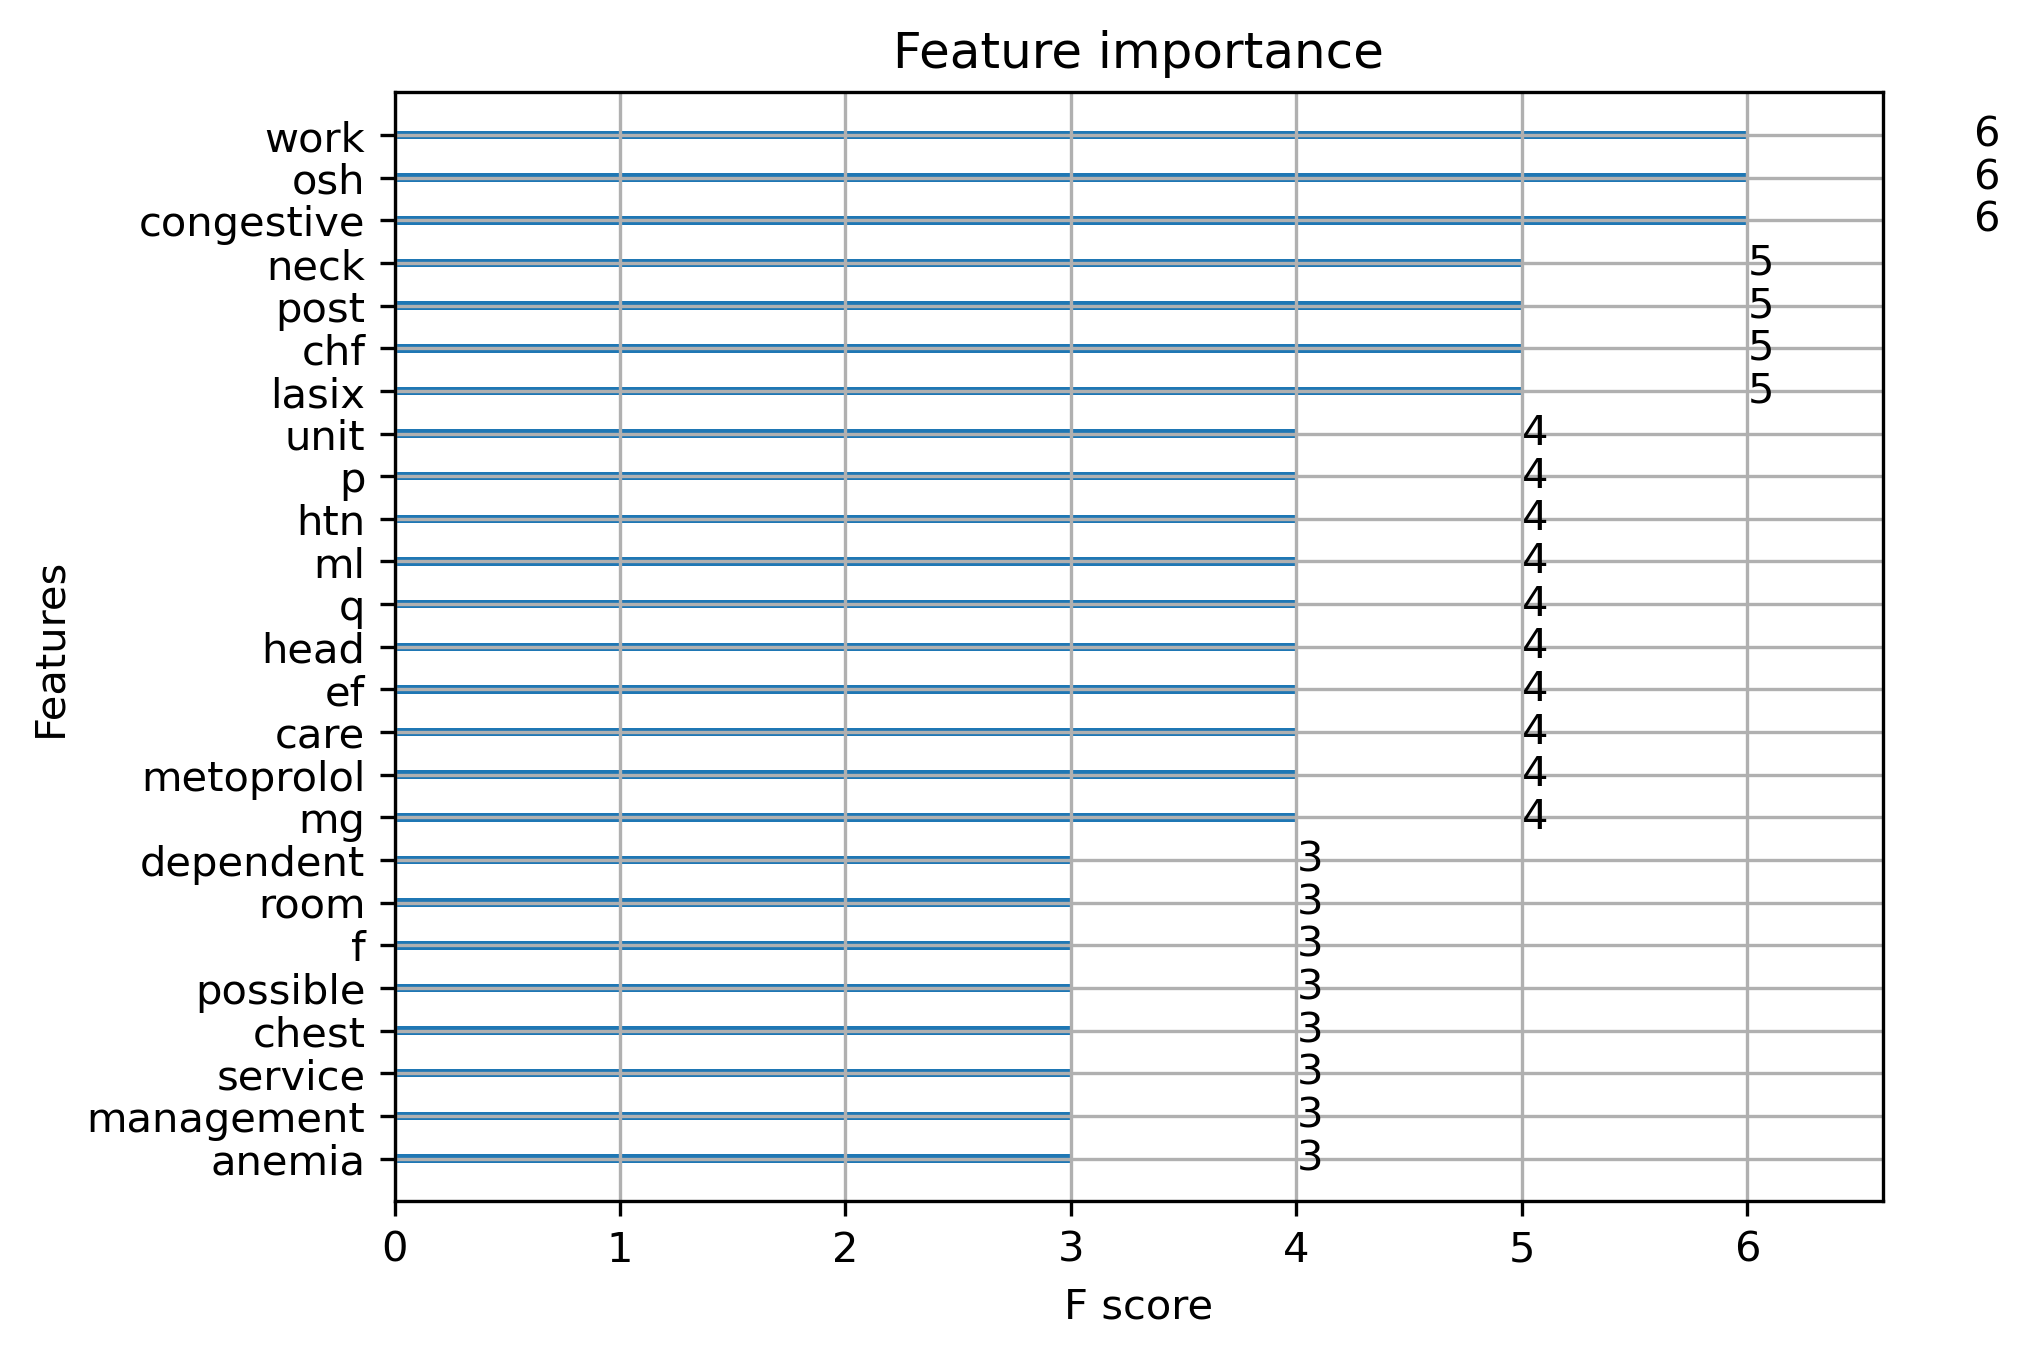
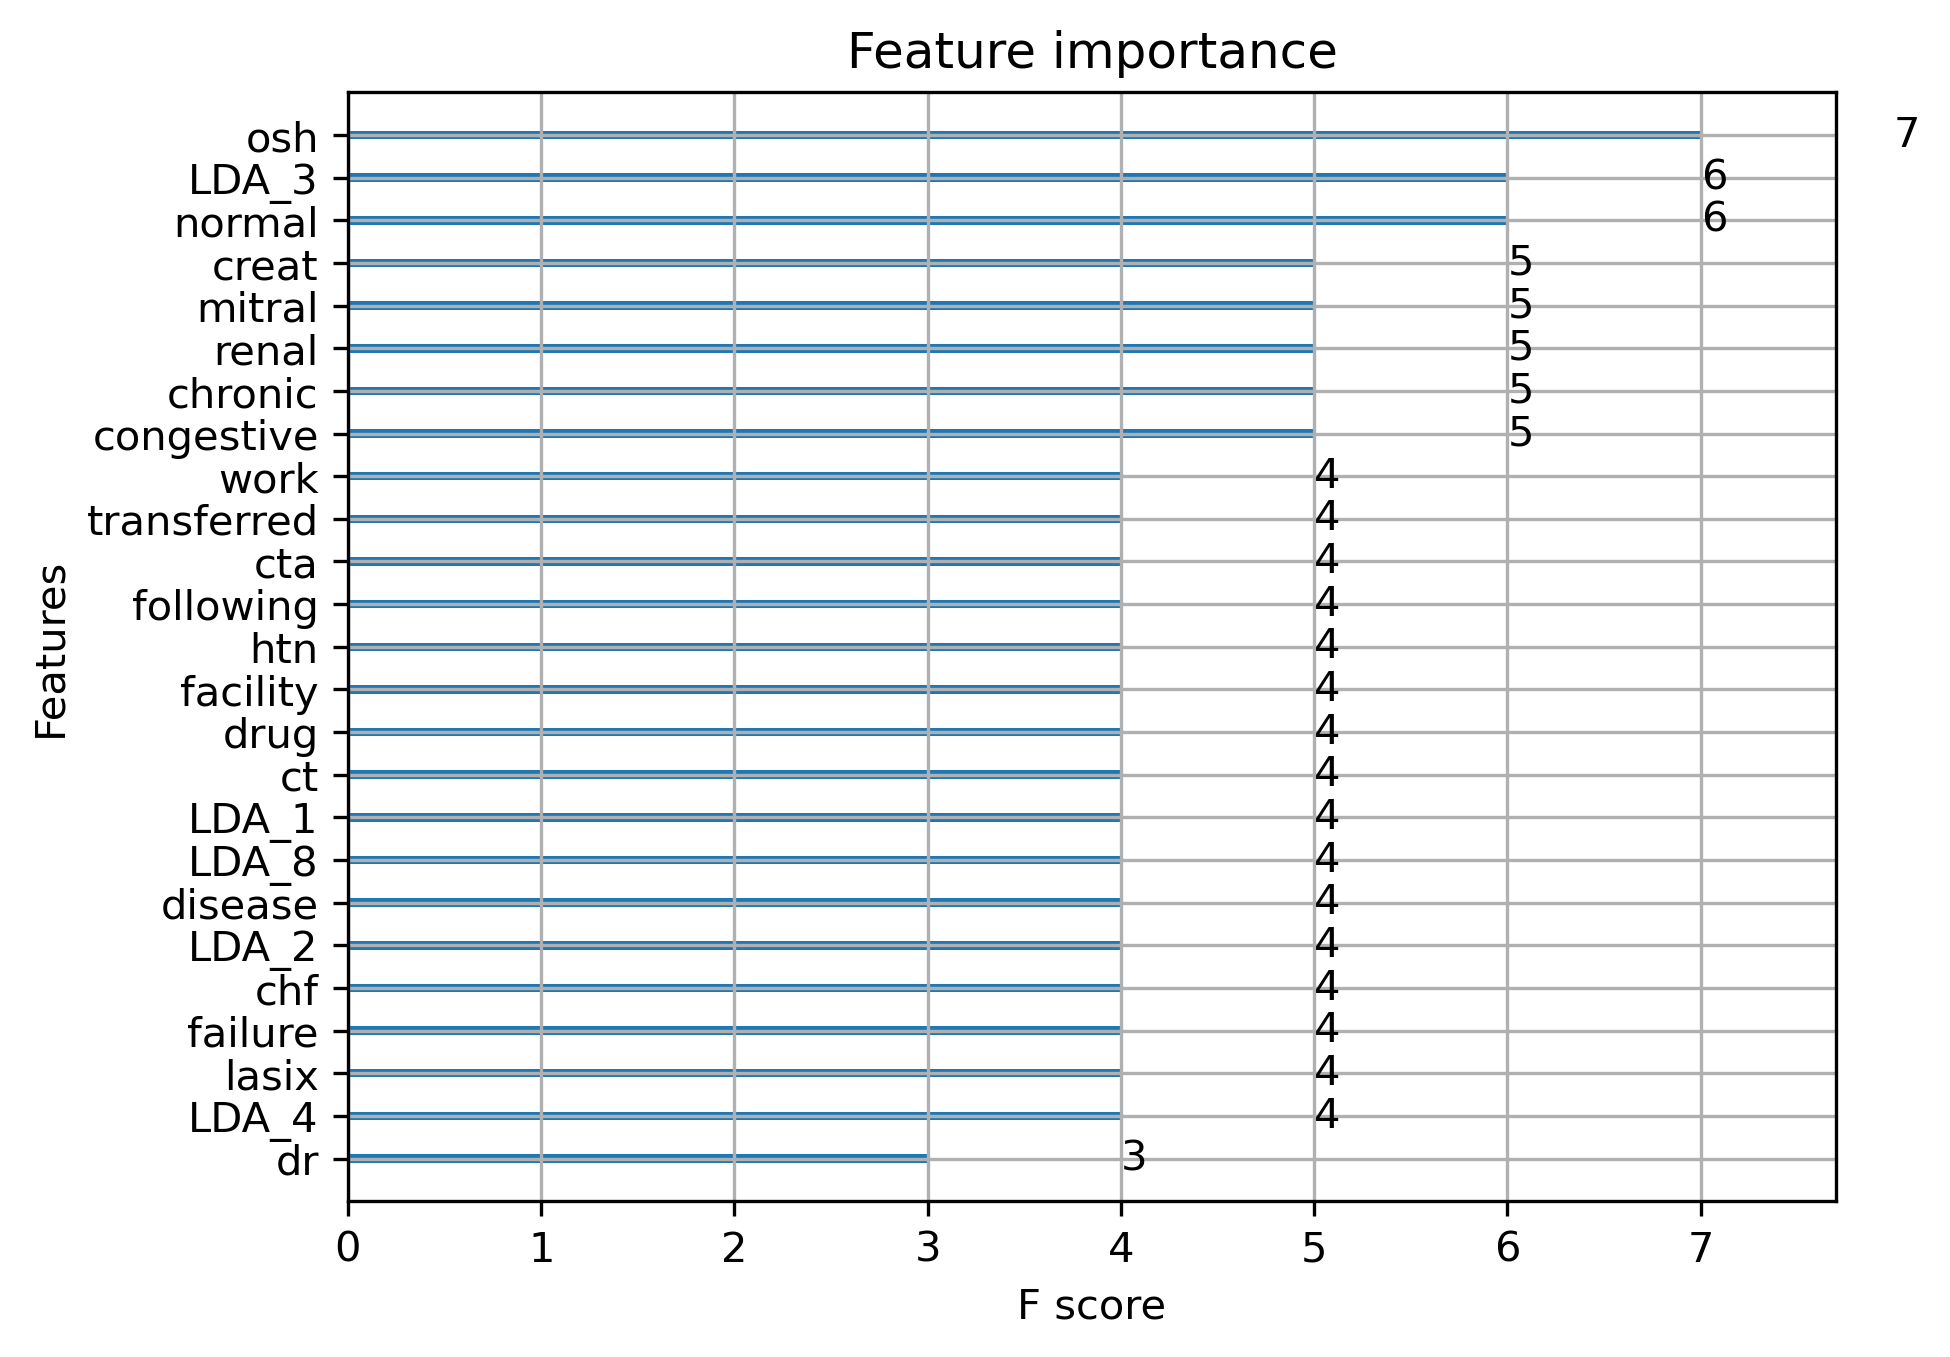
updated lda to use bow, added word2vec base but not implemented yet

diff --git a/ml/main.py b/ml/main.py
@@ -1,8 +1,9 @@
 import pandas as pd
 import xgboost as xgb
-from feature_engineering import pre_process_text, get_data, build_tfidf_vectorizer, generate_lda_features
+from feature_engineering import pre_process_text, get_data, build_tfidf_vectorizer
 from hotspot import get_hotspot_feature_names, generate_hotspot_features
-# from lda import generate_lda_features
+from lda import build_count_vectorizer, generate_lda_features
+# from word2vec import generate_w2v_features
 from model import run_xgboost, true_evaluation
 from datetime import datetime
 from scipy.sparse import hstack
@@ -18,13 +19,13 @@ if __name__ == "__main__":
 
     # TF-IDF Feature engineering
     all_text = pd.concat([train['text'],val['text']])
-    vectorizer = build_tfidf_vectorizer(all_text)
-    tfvocab = vectorizer.get_feature_names()
+    tfidf_vectorizer = build_tfidf_vectorizer(all_text)
+    tfvocab = tfidf_vectorizer.get_feature_names()
 
-    X_train_tfidf = vectorizer.transform(train['text'])
+    X_train_tfidf = tfidf_vectorizer.transform(train['text'])
     print(f'X_train_tfidf shape:{X_train_tfidf.shape}')
     
-    X_val_tfidf = vectorizer.transform(val['text'])
+    X_val_tfidf = tfidf_vectorizer.transform(val['text'])
     print(f'X_val_tfidf shape:{X_val_tfidf.shape}')
     
     # Hotspot technique feature engineering
@@ -32,10 +33,18 @@ if __name__ == "__main__":
     X_train_hotspot = generate_hotspot_features(train["text"], hf_terms)
     X_val_hotspot = generate_hotspot_features(val["text"], hf_terms)
 
-    # LDA feature engineering
+    # LDA feature engineering from BOW
+    bow_vectorizer = build_count_vectorizer(all_text)
+    X_train_lda = bow_vectorizer.transform(train["text"])
+    X_val_lda = bow_vectorizer.transform(val["text"])
+
     n_topics = 10
-    X_train_lda = generate_lda_features(X_train_tfidf, n_topics)
-    X_val_lda = generate_lda_features(X_val_tfidf, n_topics)
+    X_train_lda = generate_lda_features(X_train_lda, n_topics)
+    X_val_lda = generate_lda_features(X_val_lda, n_topics)
+
+    # word2vec feature engineering
+    # X_train_w2v = generate_w2v_features(train["text"])
+    # X_val_w2v = generate_w2v_features(val["text"])
 
     # Train XGB model
     X_train = hstack([X_train_tfidf, X_train_hotspot, X_train_lda])
@@ -52,9 +61,11 @@ if __name__ == "__main__":
     model = run_xgboost(d_train,d_val)
 
     # Run true evaluation on out-of-sample (test) set
-    X_test_tfidf = vectorizer.transform(test['text'])
+    X_test_tfidf = tfidf_vectorizer.transform(test['text'])
     X_test_hotspot = generate_hotspot_features(test["text"], hf_terms)
-    X_test_lda = generate_lda_features(X_test_tfidf, n_topics)
+    
+    X_test_lda = bow_vectorizer.transform(test["text"])
+    X_test_lda = generate_lda_features(X_test_lda, n_topics)
 
     X_test = hstack([X_test_tfidf, X_test_hotspot, X_test_lda])
 

diff --git a/ml/lda.py b/ml/lda.py
@@ -1,32 +1,33 @@
+from sklearn.feature_extraction.text import CountVectorizer
+from sklearn.decomposition import LatentDirichletAllocation
+
+## adapted from Daniel's codes
+
+def build_count_vectorizer(all_text):
+    vectorizer = CountVectorizer(analyzer='word',
+                            strip_accents='unicode',
+                            min_df=0,                        # minimum reqd occurences of a word 
+                            stop_words='english',             # remove stop words
+                            lowercase=True,                   # convert all words to lowercase
+                            max_features=15000,             # max number of uniq words
+                            token_pattern='\\w{1,}',
+                            ngram_range=(1, 1),
+                            )
+
+    return vectorizer.fit(all_text)
+
 ## referenced from 
 ### https://towardsdatascience.com/topic-modeling-and-latent-dirichlet-allocation-in-python-9bf156893c24
 ### https://www.machinelearningplus.com/nlp/topic-modeling-python-sklearn-examples/#7createthedocumentwordmatrix
 
-from sklearn.decomposition import LatentDirichletAllocation, TruncatedSVD
-from sklearn.feature_extraction.text import CountVectorizer
-from sklearn.model_selection import GridSearchCV
-
-import gensim
-
-def gen_bag_of_words(data):
-    # Create Dictionary
-    id2word = corpora.Dictionary(data)
-    # Term Document Frequency
-    bow = [id2word.doc2bow(text) for text in data]
-
-    return id2word, bow
-
-def gen_lda_model(id2word, bow):
-    model = gensim.models.LdaMulticore(
-            bow, 
-            num_topics = 10,
-            id2word = id2word,
-            passes = 2, 
-            workers = 2)
-    return model
-
-def generate_lda_features(data):
-    id2word, bow = gen_bag_of_words(data)
-    model = gen_lda_model(id2word, bow)
-
-    print("DONE")
+# build LDA based on tfidf
+def generate_lda_features(data, n_topics):
+    model = LatentDirichletAllocation(
+        n_components = n_topics,
+        max_iter = 10,
+        learning_method = "online",
+        random_state = 42,
+        n_jobs = 1
+    )
+    output = model.fit_transform(data)
+    return output

diff --git a/ml/word2vec.py b/ml/word2vec.py
@@ -1,0 +1,69 @@
+# adapted from George's codes
+from gensim.models import KeyedVectors
+import fasttext
+import fasttext.util
+import numpy as np
+import pandas as pd
+import pickle
+import re, string
+import scipy
+
+#please download this beforehand
+#this will take 30 min++ to download
+# fasttext.util.download_model('en', if_exists='ignore')  # English
+
+#please download this beforehand
+#Update this portion to your local
+m1 = KeyedVectors.load(r'C:\Users\jolee\Desktop\OMSA\CSE6250\project\CSE6250_Project\word2vec+fastText\FastText\fasttext.model')
+
+#loading the model can take some time
+m2 = fasttext.load_model(r'C:\Users\jolee\Desktop\OMSA\CSE6250\project\CSE6250_Project\cc.en.300.bin')
+fasttext.util.reduce_model(m2, 100)
+
+def get_vector(word,m1,m2):
+    if word in m1.wv.key_to_index:
+        w_ft_2_vec = m1.wv[word]
+
+    else:
+        #print("word not found in clinical note FastText")
+        w_ft_2_vec = m2.get_word_vector(word)
+    return w_ft_2_vec
+
+### next step:
+### ###
+## Add the method to convert clinical note to word embedding array
+### ###
+
+def note_to_vec(input_note):
+    """
+    Input: input_notes in each row
+    Return: word vector
+    """
+    #1 break input notes into text list
+    #2 convert each text into a vector
+    #Append them into a matrix of n x 100 ,where n = number of words in input_notes
+    word_list = [get_vector(i,m1,m2) for i in input_note.split()]
+    return np.array(word_list)
+
+def create_dataset(text):
+    #convert each note to word embedding
+    seq_arrays = []
+    for idx,note in enumerate(text):
+        if idx % 100==0:
+            print(idx,"notes embedding processed")
+        seq_arrays.append(note_to_vec(note))
+
+    return seq_arrays
+
+def generate_w2v_features(text):
+    data = create_dataset(text)
+
+    ## average features for each patient
+    ## https://zablo.net/blog/post/twitter-sentiment-analysis-python-scikit-word2vec-nltk-xgboost/
+    new_data = []
+    for s in data:
+        new_data.append(s.mean(axis = 0))
+
+    new_data = np.vstack(new_data)
+    
+    return new_data

diff --git a/ml/feature_engineering.py b/ml/feature_engineering.py
@@ -5,7 +5,6 @@ import re
 import pickle
 from nltk.stem import WordNetLemmatizer
 from sklearn.feature_extraction.text import TfidfVectorizer
-from sklearn.decomposition import LatentDirichletAllocation
 
 def pre_process_text(clean_text:str) -> str:
     """
@@ -65,19 +64,3 @@ def build_tfidf_vectorizer(all_text:pd.DataFrame) -> TfidfVectorizer:
     word_vectorizer.fit(all_text)
     
     return word_vectorizer
-
-## referenced from 
-### https://towardsdatascience.com/topic-modeling-and-latent-dirichlet-allocation-in-python-9bf156893c24
-### https://www.machinelearningplus.com/nlp/topic-modeling-python-sklearn-examples/#7createthedocumentwordmatrix
-
-# build LDA based on tfidf
-def generate_lda_features(data, n_topics):
-    model = LatentDirichletAllocation(
-        n_components = n_topics,
-        max_iter = 10,
-        learning_method = "online",
-        random_state = 42,
-        n_jobs = 1
-    )
-    output = model.fit_transform(data)
-    return output
